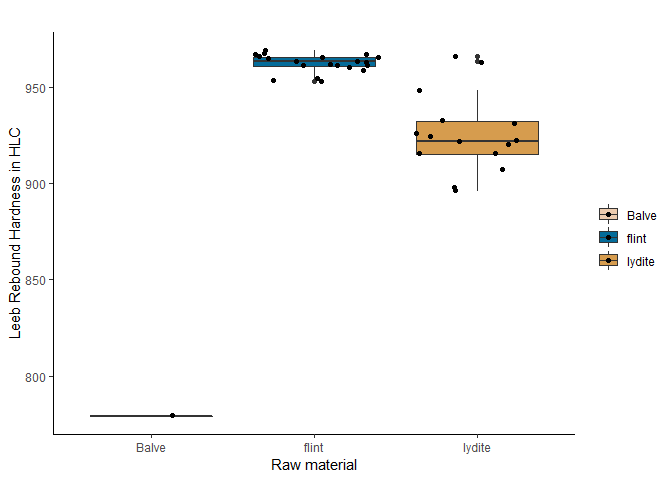
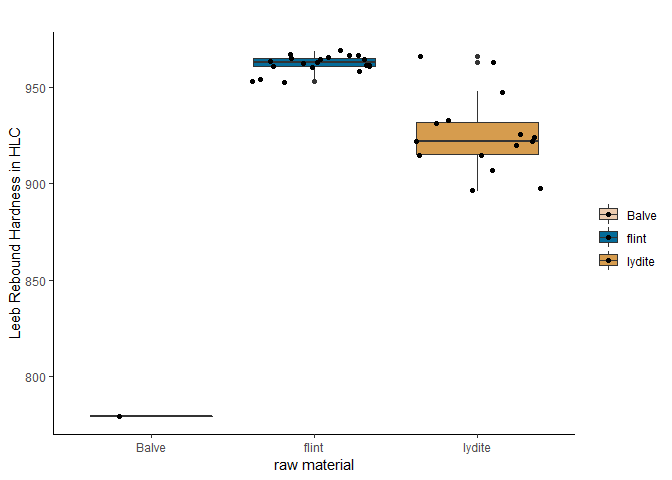
changes

diff --git a/analysis/scripts/TFE_leeb_1_import_xlsx.html b/analysis/scripts/TFE_leeb_1_import_xlsx.html
@@ -11,7 +11,7 @@
 
 <meta name="author" content="Lisa Schunk" />
 
-<meta name="date" content="2020-09-10" />
+<meta name="date" content="2021-01-22" />
 
 <title>Equotip hardness measurements - Tool function experiment</title>
 
@@ -1587,7 +1587,7 @@ div.tocify {
 
 <h1 class="title toc-ignore">Equotip hardness measurements - Tool function experiment</h1>
 <h4 class="author">Lisa Schunk</h4>
-<h4 class="date">2020-09-10</h4>
+<h4 class="date">2021-01-22</h4>
 
 </div>
 
@@ -1598,8 +1598,8 @@ div.tocify {
 <p>This script reads the xlsx file (measurements have been generated with the Equotip Leeb C rebound) and formats the data for a statistical analysis.<br />
 The script will:</p>
 <ol style="list-style-type: decimal">
-<li>Reads in the original xlsx file and organises the data</li>
-<li>Plots the data</li>
+<li>Read in the original xlsx file and organise the data</li>
+<li>Plot the data</li>
 <li>Write an XLSX-file and save an R object ready for further analysis in R</li>
 </ol>
 <div class="sourceCode" id="cb1"><pre class="sourceCode r"><code class="sourceCode r"><span id="cb1-1"><a href="#cb1-1"></a>dir_in &lt;-<span class="st"> &quot;analysis/raw_data_TFE/&quot;</span></span>
@@ -1676,10 +1676,10 @@ Formatted data will be saved in ~/analysis/plots. The knit directory for this sc
 <span id="cb20-5"><a href="#cb20-5"></a><span class="st">  </span><span class="kw">theme</span>(<span class="dt">legend.title =</span> <span class="kw">element_blank</span>()) <span class="op">+</span></span>
 <span id="cb20-6"><a href="#cb20-6"></a><span class="st">  </span><span class="kw">geom_boxplot</span>() <span class="op">+</span><span class="st"> </span></span>
 <span id="cb20-7"><a href="#cb20-7"></a><span class="st">  </span><span class="kw">scale_fill_manual</span>(<span class="dt">values=</span><span class="kw">wes_palette</span>(<span class="dt">n =</span><span class="dv">3</span>,<span class="dt">name =</span> <span class="st">&quot;Darjeeling2&quot;</span>)) <span class="op">+</span></span>
-<span id="cb20-8"><a href="#cb20-8"></a><span class="st">  </span><span class="kw">geom_jitter</span>() <span class="op">+</span><span class="st"> </span><span class="kw">labs</span>(<span class="dt">x=</span><span class="st">&quot;Raw material&quot;</span>, <span class="dt">y=</span><span class="st">&quot;Leeb Rebound Hardness in HLC&quot;</span>, <span class="dt">title=</span><span class="st">&quot;&quot;</span>) </span>
+<span id="cb20-8"><a href="#cb20-8"></a><span class="st">  </span><span class="kw">geom_jitter</span>() <span class="op">+</span><span class="st"> </span><span class="kw">labs</span>(<span class="dt">x=</span><span class="st">&quot;raw material&quot;</span>, <span class="dt">y=</span><span class="st">&quot;Leeb Rebound Hardness in HLC&quot;</span>, <span class="dt">title=</span><span class="st">&quot;&quot;</span>) </span>
 <span id="cb20-9"><a href="#cb20-9"></a></span>
 <span id="cb20-10"><a href="#cb20-10"></a><span class="kw">print</span>(data_plot)</span></code></pre></div>
[2 lines of base64/hex data omitted]
 </div>
 <div id="save-data" class="section level1">
 <h1><span class="header-section-number">6</span> Save data</h1>
@@ -1698,7 +1698,7 @@ Formatted data will be saved in ~/analysis/plots. The knit directory for this sc
 <span id="cb22-3"><a href="#cb22-3"></a><span class="st">            </span><span class="kw">md5sum</span>()</span></code></pre></div>
 <p>The checksum (MD5 hashes) of the exported files are:</p>
 <pre><code>       analysis/plots/_IE_plot.pdf       analysis/plots/_TFE_plot.pdf 
-&quot;b55093e7922a9f0e3f5fb1dfb87e15cb&quot; &quot;4fb78bd59f70b62df3793d697029f66c&quot; </code></pre>
+&quot;10061238e01653910d8b3df4b10ef10f&quot; &quot;05ea328bfa8980f71cca8dada3d9a857&quot; </code></pre>
 <hr />
 </div>
 <div id="sessioninfo-and-rstudio-version" class="section level1">
@@ -1725,7 +1725,7 @@ other attached packages:
  [9] readxl_1.3.1      ggplot2_3.3.2     readr_1.3.1       openxlsx_4.1.5   
 
 loaded via a namespace (and not attached):
- [1] tidyselect_1.1.0 xfun_0.16        haven_2.3.1      colorspace_1.4-1
+ [1] tidyselect_1.1.0 xfun_0.17        haven_2.3.1      colorspace_1.4-1
  [5] vctrs_0.3.4      generics_0.0.2   htmltools_0.5.0  yaml_2.2.1      
  [9] blob_1.2.1       rlang_0.4.7      pillar_1.4.6     glue_1.4.2      
 [13] withr_2.2.0      DBI_1.1.0        dbplyr_1.4.4     modelr_0.1.8    

diff --git a/analysis/scripts/IE-leeb_1_Import_xlsx.html b/analysis/scripts/IE-leeb_1_Import_xlsx.html
@@ -11,7 +11,7 @@
 
 <meta name="author" content="Lisa Schunk" />
 
-<meta name="date" content="2020-09-10" />
+<meta name="date" content="2021-01-22" />
 
 <title>Equotip hardness measurements - “Initial experiment”</title>
 
@@ -1587,7 +1587,7 @@ div.tocify {
 
 <h1 class="title toc-ignore">Equotip hardness measurements - “Initial experiment”</h1>
 <h4 class="author">Lisa Schunk</h4>
-<h4 class="date">2020-09-10</h4>
+<h4 class="date">2021-01-22</h4>
 
 </div>
 
@@ -1597,7 +1597,7 @@ div.tocify {
 <p>This script reads the xlsx file (measurements have been generated with the Equotip Leeb C rebound) and formats the data for a statistical analysis.<br />
 The script will:</p>
 <ol style="list-style-type: decimal">
-<li>Reads in the original xlsx file and organises the data</li>
+<li>Read in the original xlsx file and organise the data</li>
 <li>Write an XLSX-file and save an R object ready for further analysis in R</li>
 </ol>
 <div class="sourceCode" id="cb1"><pre class="sourceCode r"><code class="sourceCode r"><span id="cb1-1"><a href="#cb1-1"></a>dir_in &lt;-<span class="st"> &quot;analysis/raw_data/&quot;</span></span>
@@ -1632,7 +1632,7 @@ Formatted data will be saved in ~/analysis/plots. The knit directory for this sc
 <div class="sourceCode" id="cb5"><pre class="sourceCode r"><code class="sourceCode r"><span id="cb5-1"><a href="#cb5-1"></a>imp_data &lt;-<span class="st"> </span><span class="kw">read.xlsx</span>(<span class="dt">xlsxFile =</span> data_file, <span class="dt">sheet =</span> <span class="dv">1</span>, <span class="dt">startRow =</span> <span class="dv">3</span>, <span class="dt">colNames =</span> <span class="ot">TRUE</span>,</span>
 <span id="cb5-2"><a href="#cb5-2"></a>                      <span class="dt">rowNames =</span> <span class="ot">FALSE</span>, <span class="dt">skipEmptyRows =</span> <span class="ot">FALSE</span>) </span>
 <span id="cb5-3"><a href="#cb5-3"></a></span>
-<span id="cb5-4"><a href="#cb5-4"></a><span class="co"># changes the mode of &#39;hardness in HLC from character to numeric </span></span>
+<span id="cb5-4"><a href="#cb5-4"></a><span class="co"># changes the mode of &#39;hardness in HLC&#39; from character to numeric </span></span>
 <span id="cb5-5"><a href="#cb5-5"></a>imp_data<span class="op">$</span>hardness.in.HLC &lt;-<span class="st"> </span><span class="kw">as.numeric</span>(imp_data<span class="op">$</span>hardness.in.HLC)</span>
 <span id="cb5-6"><a href="#cb5-6"></a><span class="kw">str</span>(imp_data)</span></code></pre></div>
 <pre><code>&#39;data.frame&#39;:   36 obs. of  2 variables:
@@ -1673,10 +1673,10 @@ Formatted data will be saved in ~/analysis/plots. The knit directory for this sc
 <span id="cb20-5"><a href="#cb20-5"></a><span class="st">  </span><span class="kw">theme</span>(<span class="dt">legend.title =</span> <span class="kw">element_blank</span>()) <span class="op">+</span></span>
 <span id="cb20-6"><a href="#cb20-6"></a><span class="st">  </span><span class="kw">geom_boxplot</span>() <span class="op">+</span><span class="st"> </span></span>
 <span id="cb20-7"><a href="#cb20-7"></a><span class="st">  </span><span class="kw">scale_fill_manual</span>(<span class="dt">values=</span><span class="kw">wes_palette</span>(<span class="dt">n =</span><span class="dv">3</span>,<span class="dt">name =</span> <span class="st">&quot;Darjeeling2&quot;</span>)) <span class="op">+</span></span>
-<span id="cb20-8"><a href="#cb20-8"></a><span class="st">  </span><span class="kw">geom_jitter</span>() <span class="op">+</span><span class="st"> </span><span class="kw">labs</span>(<span class="dt">x=</span><span class="st">&quot;Raw material&quot;</span>, <span class="dt">y=</span><span class="st">&quot;Leeb Rebound Hardness in HLC&quot;</span>, <span class="dt">title=</span><span class="st">&quot;&quot;</span>) </span>
+<span id="cb20-8"><a href="#cb20-8"></a><span class="st">  </span><span class="kw">geom_jitter</span>() <span class="op">+</span><span class="st"> </span><span class="kw">labs</span>(<span class="dt">x=</span><span class="st">&quot;raw material&quot;</span>, <span class="dt">y=</span><span class="st">&quot;Leeb Rebound Hardness in HLC&quot;</span>, <span class="dt">title=</span><span class="st">&quot;&quot;</span>) </span>
 <span id="cb20-9"><a href="#cb20-9"></a></span>
 <span id="cb20-10"><a href="#cb20-10"></a><span class="kw">print</span>(data_plot)</span></code></pre></div>
[2 lines of base64/hex data omitted]
 </div>
 <div id="save-data" class="section level1">
 <h1><span class="header-section-number">7</span> Save data</h1>
@@ -1695,7 +1695,7 @@ Formatted data will be saved in ~/analysis/plots. The knit directory for this sc
 <span id="cb22-3"><a href="#cb22-3"></a><span class="st">            </span><span class="kw">md5sum</span>()</span></code></pre></div>
 <p>The checksum (MD5 hashes) of the exported files are:</p>
 <pre><code>       analysis/plots/_IE_plot.pdf       analysis/plots/_TFE_plot.pdf 
-&quot;a5196c8f81f1fd7222c6ed055cafe23d&quot; &quot;d6992a2c2fb56f7c80b03ee2e543f36f&quot; </code></pre>
+&quot;d86c8102fc235f3c6fc654e1be6a3ac7&quot; &quot;d6992a2c2fb56f7c80b03ee2e543f36f&quot; </code></pre>
 <hr />
 </div>
 <div id="sessioninfo-and-rstudio-version" class="section level1">
@@ -1722,7 +1722,7 @@ other attached packages:
  [9] readxl_1.3.1      ggplot2_3.3.2     readr_1.3.1       openxlsx_4.1.5   
 
 loaded via a namespace (and not attached):
- [1] tidyselect_1.1.0 xfun_0.16        haven_2.3.1      colorspace_1.4-1
+ [1] tidyselect_1.1.0 xfun_0.17        haven_2.3.1      colorspace_1.4-1
  [5] vctrs_0.3.4      generics_0.0.2   htmltools_0.5.0  yaml_2.2.1      
  [9] blob_1.2.1       rlang_0.4.7      pillar_1.4.6     glue_1.4.2      
 [13] withr_2.2.0      DBI_1.1.0        dbplyr_1.4.4     modelr_0.1.8    

diff --git a/analysis/scripts/IE-leeb_1_Import_xlsx.md b/analysis/scripts/IE-leeb_1_Import_xlsx.md
@@ -1,7 +1,7 @@
 Equotip hardness measurements - “Initial experiment”
 ================
 Lisa Schunk
-2020-09-10
+2021-01-22
 
   - [Goal of the script](#goal-of-the-script)
   - [Load packages](#load-packages)
@@ -23,7 +23,7 @@ the Equotip Leeb C rebound) and formats the data for a statistical
 analysis.  
 The script will:
 
-1.  Reads in the original xlsx file and organises the data
+1.  Read in the original xlsx file and organise the data
 2.  Write an XLSX-file and save an R object ready for further analysis
     in R
 
@@ -76,7 +76,7 @@ The checksum (MD5 hashes) of the imported files are:
 imp_data <- read.xlsx(xlsxFile = data_file, sheet = 1, startRow = 3, colNames = TRUE,
                       rowNames = FALSE, skipEmptyRows = FALSE) 
 
-# changes the mode of 'hardness in HLC from character to numeric 
+# changes the mode of 'hardness in HLC' from character to numeric 
 imp_data$hardness.in.HLC <- as.numeric(imp_data$hardness.in.HLC)
 str(imp_data)
 ```
@@ -152,7 +152,7 @@ data_plot <- ggplot (imp_data, aes(y = hardness.in.HLC, x = raw.material, fill =
   theme(legend.title = element_blank()) +
   geom_boxplot() + 
   scale_fill_manual(values=wes_palette(n =3,name = "Darjeeling2")) +
-  geom_jitter() + labs(x="Raw material", y="Leeb Rebound Hardness in HLC", title="") 
+  geom_jitter() + labs(x="raw material", y="Leeb Rebound Hardness in HLC", title="") 
 
 print(data_plot)
 ```
@@ -184,7 +184,7 @@ The checksum (MD5 hashes) of the exported files are:
 
 ``` 
        analysis/plots/_IE_plot.pdf       analysis/plots/_TFE_plot.pdf 
-"461b9ba71054e3f93b8cb8d4a6bafb16" "d6992a2c2fb56f7c80b03ee2e543f36f" 
+"10061238e01653910d8b3df4b10ef10f" "d6992a2c2fb56f7c80b03ee2e543f36f" 
 ```
 
 -----
@@ -217,7 +217,7 @@ other attached packages:
  [9] readxl_1.3.1      ggplot2_3.3.2     readr_1.3.1       openxlsx_4.1.5   
 
 loaded via a namespace (and not attached):
- [1] tidyselect_1.1.0 xfun_0.16        haven_2.3.1      colorspace_1.4-1
+ [1] tidyselect_1.1.0 xfun_0.17        haven_2.3.1      colorspace_1.4-1
  [5] vctrs_0.3.4      generics_0.0.2   htmltools_0.5.0  yaml_2.2.1      
  [9] blob_1.2.1       rlang_0.4.7      pillar_1.4.6     glue_1.4.2      
 [13] withr_2.2.0      DBI_1.1.0        dbplyr_1.4.4     modelr_0.1.8    

diff --git a/analysis/scripts/TFE_leeb_1_import_xlsx.md b/analysis/scripts/TFE_leeb_1_import_xlsx.md
@@ -1,7 +1,7 @@
 Equotip hardness measurements - Tool function experiment
 ================
 Lisa Schunk
-2020-09-10
+2021-01-22
 
   - [Goal of the script](#goal-of-the-script)
   - [Load packages](#load-packages)
@@ -25,8 +25,8 @@ the Equotip Leeb C rebound) and formats the data for a statistical
 analysis.  
 The script will:
 
-1.  Reads in the original xlsx file and organises the data
-2.  Plots the data
+1.  Read in the original xlsx file and organise the data
+2.  Plot the data
 3.  Write an XLSX-file and save an R object ready for further analysis
     in R
 
@@ -156,7 +156,7 @@ data_plot <- ggplot (imp_data, aes(y = hardness.in.HLC, x = raw.material,
   theme(legend.title = element_blank()) +
   geom_boxplot() + 
   scale_fill_manual(values=wes_palette(n =3,name = "Darjeeling2")) +
-  geom_jitter() + labs(x="Raw material", y="Leeb Rebound Hardness in HLC", title="") 
+  geom_jitter() + labs(x="raw material", y="Leeb Rebound Hardness in HLC", title="") 
 
 print(data_plot)
 ```
@@ -188,7 +188,7 @@ The checksum (MD5 hashes) of the exported files are:
 
 ``` 
        analysis/plots/_IE_plot.pdf       analysis/plots/_TFE_plot.pdf 
-"b55093e7922a9f0e3f5fb1dfb87e15cb" "d6992a2c2fb56f7c80b03ee2e543f36f" 
+"10061238e01653910d8b3df4b10ef10f" "e811b486358ad0649db03298228b4234" 
 ```
 
 -----
@@ -221,7 +221,7 @@ other attached packages:
  [9] readxl_1.3.1      ggplot2_3.3.2     readr_1.3.1       openxlsx_4.1.5   
 
 loaded via a namespace (and not attached):
- [1] tidyselect_1.1.0 xfun_0.16        haven_2.3.1      colorspace_1.4-1
+ [1] tidyselect_1.1.0 xfun_0.17        haven_2.3.1      colorspace_1.4-1
  [5] vctrs_0.3.4      generics_0.0.2   htmltools_0.5.0  yaml_2.2.1      
  [9] blob_1.2.1       rlang_0.4.7      pillar_1.4.6     glue_1.4.2      
 [13] withr_2.2.0      DBI_1.1.0        dbplyr_1.4.4     modelr_0.1.8    
